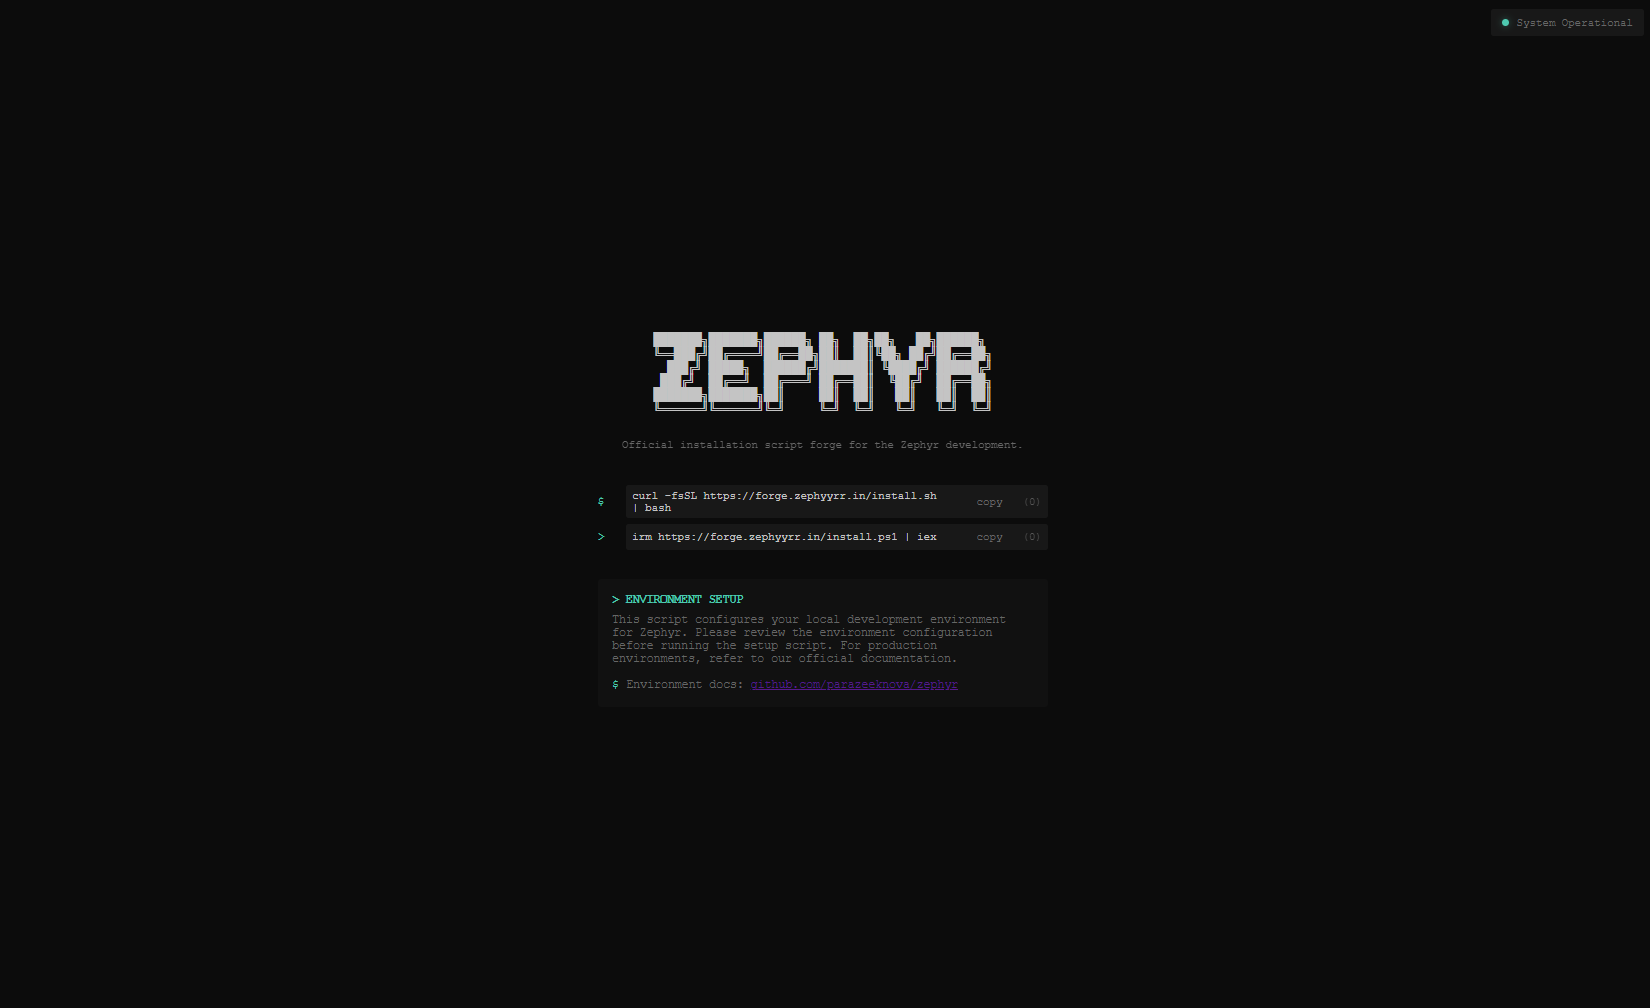
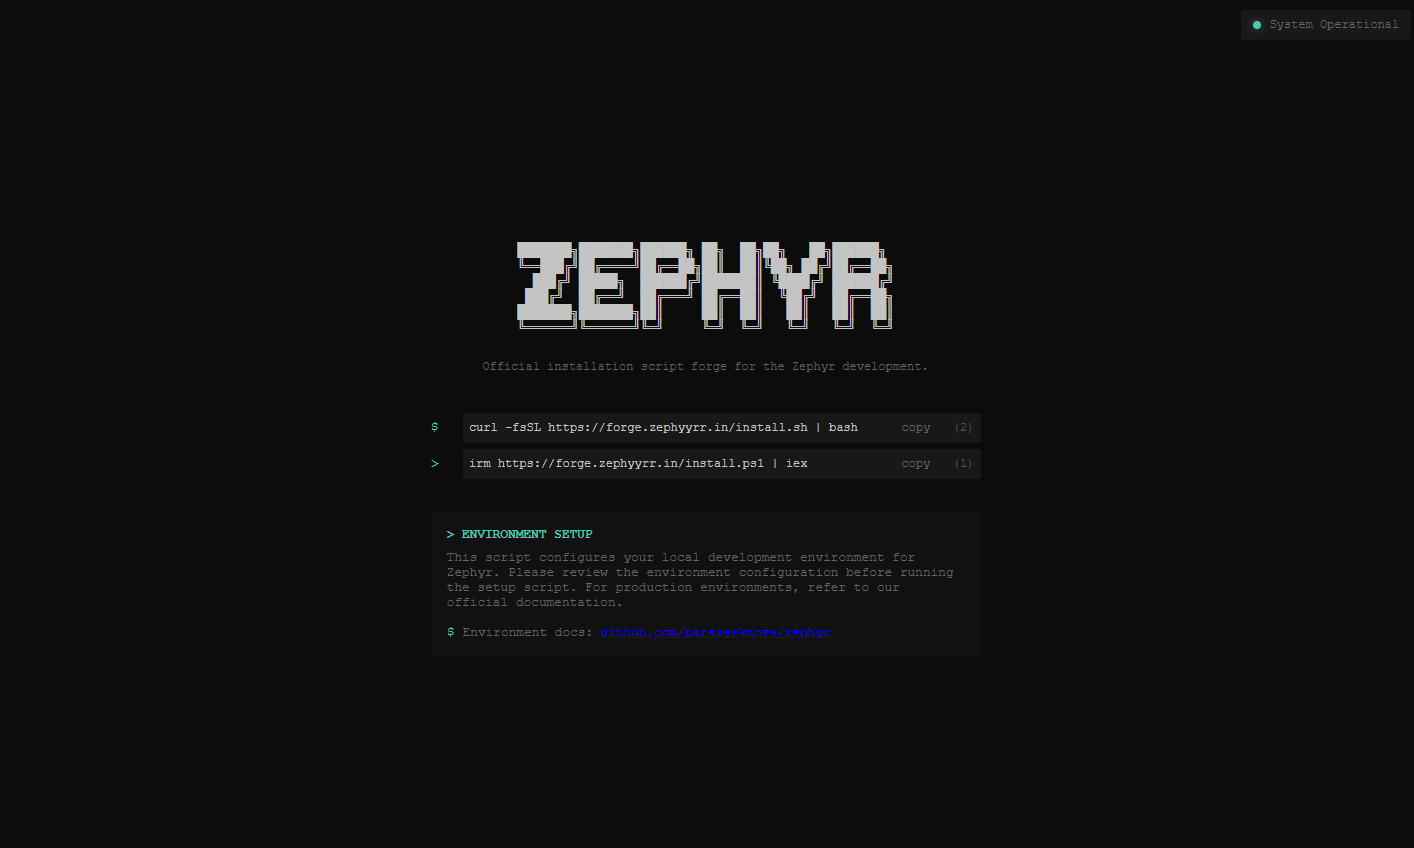
fix[OVERFLOW]: UI changes
Fixed broken link, linux overflow

diff --git a/src/server.js b/src/server.js
@@ -230,7 +230,7 @@ app.get('/', (req, res) => {
     <html lang="en">
       <head>
         <title>Zephyr Forge</title>
-        <link rel="icon" href="https://raw.githubusercontent.com/parazeeknova/zephyr-forge/d28d68ce175625644f365c9391c388cc9d07010a/src/public/forge.svg" type="image/svg+xml">
+        <link rel="icon" href="https://raw.githubusercontent.com/parazeeknova/zephyr-forge/c1f0f00554f19058ae32e275c03fe2fc22648d03/src/public/forge.svg" type="image/svg+xml">
         <meta charset="UTF-8">
         <meta name="viewport" content="width=device-width, initial-scale=1.0">
         <meta name="description" content="Official environment setup for Zephyr development">
@@ -278,7 +278,7 @@ app.get('/', (req, res) => {
             display: inline-block;
             margin-bottom: 1.5rem;
             text-decoration: none;
-            text-align: center;  /* Added */
+            text-align: center;
           }
 
           .logo, .logo-hover {
@@ -287,8 +287,8 @@ app.get('/', (req, res) => {
             font-size: 0.8rem;
             line-height: 1.2;
             transition: opacity 0.3s ease-in-out;
-            display: inline-block;  /* Added */
-            text-align: left;  /* Added */
+            display: inline-block;
+            text-align: center;
           }
 
           .logo-hover {
@@ -333,7 +333,7 @@ app.get('/', (req, res) => {
             display: inline-block;
             text-align: left;
             width: 100%;
-            max-width: 500px;
+            max-width: 550px;
           }
 
           .command-line {
@@ -449,7 +449,7 @@ app.get('/', (req, res) => {
             text-align: left;
             font-size: 0.8rem;
             color: var(--dim);
-            max-width: 500px;
+            max-width: 550px;
             margin-left: auto;
             margin-right: auto;
             padding: 1rem;
@@ -510,7 +510,7 @@ app.get('/', (req, res) => {
             }
             
             .commands {
-              max-width: 100%;
+              max-width: 90%;
             }
 
             .command-wrapper {
@@ -536,23 +536,86 @@ app.get('/', (req, res) => {
           }
 
           @media (max-width: 480px) {
-            .logo, .logo-hover {
-              font-size: 0.5rem;
+            .terminal {
+              padding: 0.5rem;
+              width: 100%;
+              max-width: 100%;
             }
 
-            .main-desc {
-              font-size: 0.75rem;
+            .commands {
+              width: 100%;
+              padding: 0 0.5rem;
             }
 
-            .sub-desc {
-              font-size: 0.7rem;
+            .command-line {
+              margin: 0.5rem 0;
+              width: 100%;
             }
 
             .command-wrapper {
-              padding: 0.25rem 0.4rem;
+              min-width: unset;
+              width: 100%;
+              padding: 0.4rem;
+            }
+
+            .command {
+              font-size: 0.65rem;
+              padding-right: 0.5rem;
+              overflow-x: auto;
+              white-space: nowrap;
+              scrollbar-width: none; /* Firefox */
+              -ms-overflow-style: none; /* IE and Edge */
+            }
+
+            .command::-webkit-scrollbar {
+              display: none; /* Chrome, Safari, Opera */
+            }
+
+            .copy-wrapper {
+              display: flex;
+              align-items: center;
+              gap: 0.3rem;
+              flex-shrink: 0;
+            }
+
+            .copy-button {
+              font-size: 0.65rem;
+              padding: 0.2rem 0.4rem;
+            }
+
+            .copy-count {
+              font-size: 0.65rem;
+            }
+
+            .prompt {
+              font-size: 0.7rem;
+              min-width: 1rem;
+            }
+
+            .typing-text {
+              font-size: 0.7rem;
+              padding: 0 0.5rem;
+              margin-bottom: 1rem;
+            }
+
+            .logo, .logo-hover {
+              font-size: 0.45rem;
+              transform: scale(0.9);
+            }
+
+            .status-indicator {
+              font-size: 0.65rem;
+              padding: 0.3rem 0.5rem;
+              right: 0.5rem;
+              top: 0.5rem;
+            }
+
+            .disclaimer {
+              font-size: 0.65rem;
+              padding: 0.75rem;
+              margin: 1rem 0.5rem;
             }
           }
-          
           .status-indicator {
             position: absolute;
             top: 1rem;
